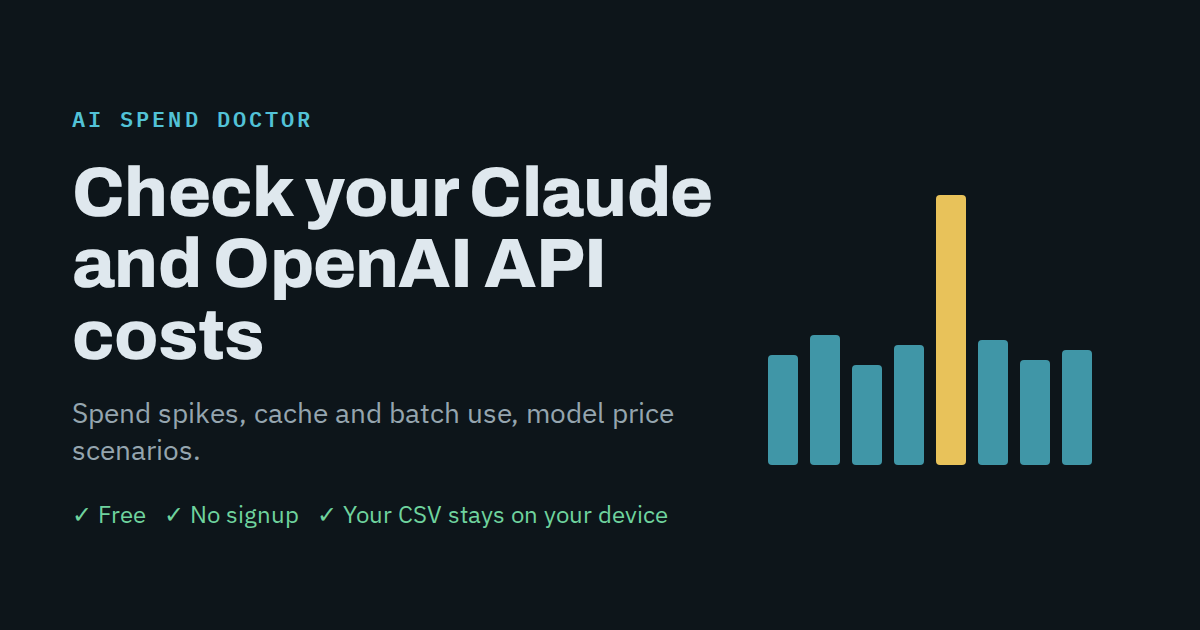
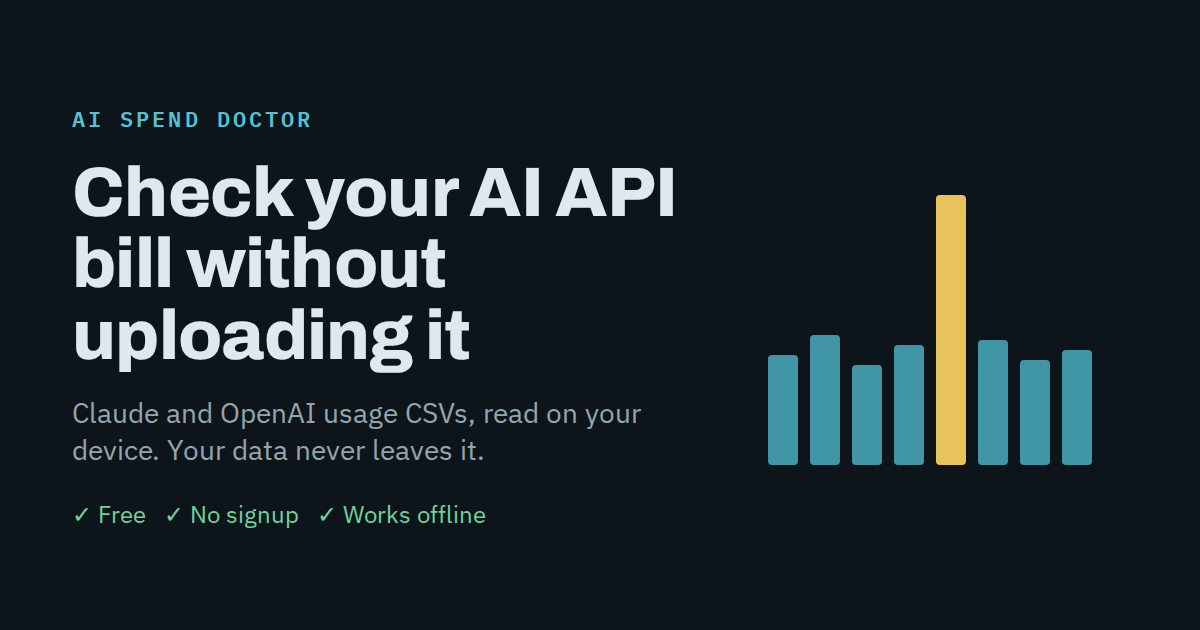
Lead with privacy, add CSP

Changed region(s): [[0.0617, 0.2413, 0.6167, 0.6032], [0.0617, 0.6333, 0.555, 0.754], [0.2775, 0.7841, 0.555, 0.8444]]

diff --git a/index.html b/index.html
@@ -3,14 +3,15 @@
 <head>
 <meta charset="utf-8">
 <meta name="viewport" content="width=device-width,initial-scale=1,viewport-fit=cover">
-<title>Free Claude &amp; OpenAI API Cost Check | AI Spend Doctor</title>
-<meta name="description" content="Open your Claude or OpenAI API usage CSV and see spend spikes, cache and batch use and model price scenarios. Free, no signup, the file stays on your device.">
+<meta http-equiv="Content-Security-Policy" content="default-src 'self'; connect-src 'none'; script-src 'self'; style-src 'self' 'unsafe-inline' https://fonts.googleapis.com; font-src https://fonts.gstatic.com; img-src 'self' data: blob:; form-action 'none'; base-uri 'none'; object-src 'none'">
+<title>Private Claude &amp; OpenAI API Cost Check | AI Spend Doctor</title>
+<meta name="description" content="Check your Claude or OpenAI API usage CSV without uploading it. The file is read on your device and never leaves it. Spend spikes, cache and batch use, model price scenarios. Free, no signup.">
 <link rel="canonical" href="https://aispenddoctor.com/">
 <meta property="og:type" content="website">
 <meta property="og:url" content="https://aispenddoctor.com/">
 <meta property="og:site_name" content="AI Spend Doctor">
-<meta property="og:title" content="Free Claude &amp; OpenAI API cost check">
-<meta property="og:description" content="Open your API usage CSV and see spend spikes and cost patterns worth investigating. The file stays on your device.">
+<meta property="og:title" content="Check your AI API bill without uploading it">
+<meta property="og:description" content="Your Claude or OpenAI usage CSV is read on your device and never leaves it. See spend spikes and cost patterns worth investigating. Free, no signup.">
 <meta property="og:image" content="https://aispenddoctor.com/og.png">
 <meta property="og:image:width" content="1200">
 <meta property="og:image:height" content="630">
@@ -168,28 +169,42 @@ table.checks th{font:600 11px var(--mono);letter-spacing:.08em;text-transform:up
 .premium .early{font-size:14px}
 .foot a{font-weight:500}
 @media (max-width:560px){table.checks td:nth-child(3){font-size:12px}}
+.proof{background:var(--good-soft);border-radius:12px;padding:16px 18px;display:grid;gap:10px}
+.proof h2{font:700 18px/1.3 var(--display);margin:0;color:var(--ink);text-wrap:balance}
+.proof ul{list-style:none;margin:0;padding:0;display:grid;gap:7px;font-size:15px}
+.proof li{padding-left:24px;position:relative;max-width:68ch}
+.proof li::before{content:"\2713";position:absolute;left:0;color:var(--good);font-weight:700}
+.proof b{color:var(--good);font-weight:600}
+.proof code{font:500 13px var(--mono);background:var(--surface);padding:1px 5px;border-radius:5px;white-space:nowrap}
+.proof a{color:var(--accent);font-weight:600}
 </style>
 </head>
 <body>
 <div class="wrap">
   <section class="hero">
     <div class="brand">AI Spend Doctor</div>
-    <h1>Check your Claude and OpenAI API costs.</h1>
-    <p class="sub">Find spend spikes and cost patterns worth investigating. Open your usage CSV for a free check, or try the demo first.</p>
+    <h1>Check your AI API bill without uploading it.</h1>
+    <p class="sub">Open your Claude or OpenAI usage CSV and see spend spikes, cache and batch use, and model price scenarios. This page reads the file on your device. Your data never leaves it.</p>
     <div class="cta-row">
       <a class="btn primary" href="#start" data-start>Check my CSV for free</a>
       <a class="btn" href="#demo" data-demo>Try the demo</a>
     </div>
     <p class="scope">For API usage and cost exports in US dollars. ChatGPT and Claude chat subscriptions are billed separately and are not covered.</p>
-    <ul class="private" aria-label="Privacy">
-      <li>Your CSV stays on this device</li><li>No signup</li><li>No API key</li>
-    </ul>
+    <section class="proof" aria-labelledby="proofTitle">
+      <h2 id="proofTitle">Your billing data stays with you. You can check that yourself.</h2>
+      <ul>
+        <li><b>Nothing is sent.</b> The page's security policy forbids it from making any network request (<code>connect-src 'none'</code>), and your browser enforces that, not us.</li>
+        <li><b>Works offline.</b> Load the page, turn off your internet, then open your file. The check still runs.</li>
+        <li><b>Nothing to hand over.</b> No account, no API key, no analytics, nothing stored after you close the tab.</li>
+        <li><b>Source available.</b> Read every line on <a href="https://github.com/labfile0-eng/ai-spend-doctor" target="_blank" rel="noopener">GitHub</a>.</li>
+      </ul>
+    </section>
   </section>
 
   <section class="card" id="start" aria-label="Check your usage file">
     <div class="drop" id="drop" tabindex="0" role="button" aria-label="Choose your usage CSV file" aria-describedby="dropHint">
       <strong>Open your usage CSV</strong>
-      <span id="dropHint">Drag the file here or press to choose it. Up to 50 MB.</span>
+      <span id="dropHint">It is read here and stays on this device. Drag the file here or press to choose it. Up to 50 MB.</span>
       <input type="file" id="file" accept=".csv,text/csv,text/plain" hidden>
     </div>
     <div class="status" id="status" role="status" aria-live="polite"></div>
@@ -255,7 +270,7 @@ table.checks th{font:600 11px var(--mono);letter-spacing:.08em;text-transform:up
   </section>
 
   <footer class="foot">
-    <p><b>How it works.</b> The page reads your file with JavaScript on this device. It sends nothing about the file anywhere, stores nothing, and has no analytics. The source is available for inspection on <a href="https://github.com/labfile0-eng/ai-spend-doctor" target="_blank" rel="noopener">GitHub</a>.</p>
+    <p><b>How it works.</b> The page reads your file with JavaScript on this device. Its Content Security Policy blocks all network requests from the page, so the file and the results cannot be sent anywhere. It stores nothing and has no analytics. The source is available for inspection on <a href="https://github.com/labfile0-eng/ai-spend-doctor" target="_blank" rel="noopener">GitHub</a>.</p>
     <p><b>What the numbers mean.</b> Reported cost comes from the amounts in your file. Estimated cost is calculated from token counts and list prices, only for models in our price list. Checks that need data your file does not have are marked as not available rather than counted as zero. <a href="/csv-formats/#method">How we calculate</a></p>
     <p>Prices checked <span id="checked"></span> from the <a href="https://platform.claude.com/docs/en/about-claude/pricing" target="_blank" rel="noopener">Anthropic</a> and <a href="https://developers.openai.com/api/docs/pricing" target="_blank" rel="noopener">OpenAI</a> price pages. Not affiliated with Anthropic or OpenAI.</p>
     <p>Guides: <a href="/what-your-api-usage-csv-can-tell-you/">Reading your usage CSV</a> · <a href="/csv-formats/">Supported CSV formats</a> · <a href="/claude-opus-4-1-vs-opus-5-5/">Opus 4.1 vs Opus 5.5</a> · <a href="/claude-sonnet-4-vs-sonnet-5-price/">Sonnet 4 vs Sonnet 5</a> · <a href="/claude-prompt-caching-and-batch-api-savings/">Caching and Batch API</a></p>

diff --git a/README.md b/README.md
@@ -1,6 +1,6 @@
 # AI Spend Doctor
 
-**Check your Claude and OpenAI API costs.** Open your API usage or cost CSV and see spend spikes and cost patterns worth investigating. Free, no signup, no API key. The file stays on your device.
+**Check your Claude and OpenAI API bill without uploading it.** Open your API usage or cost CSV and see spend spikes and cost patterns worth investigating. The file is read on your device and never leaves it: the page's Content Security Policy (`connect-src 'none'`) blocks every network request, and the check works offline. Free, no signup, no API key.
 
 **Try it:** https://aispenddoctor.com/ · **Demo:** https://aispenddoctor.com/#demo
 
